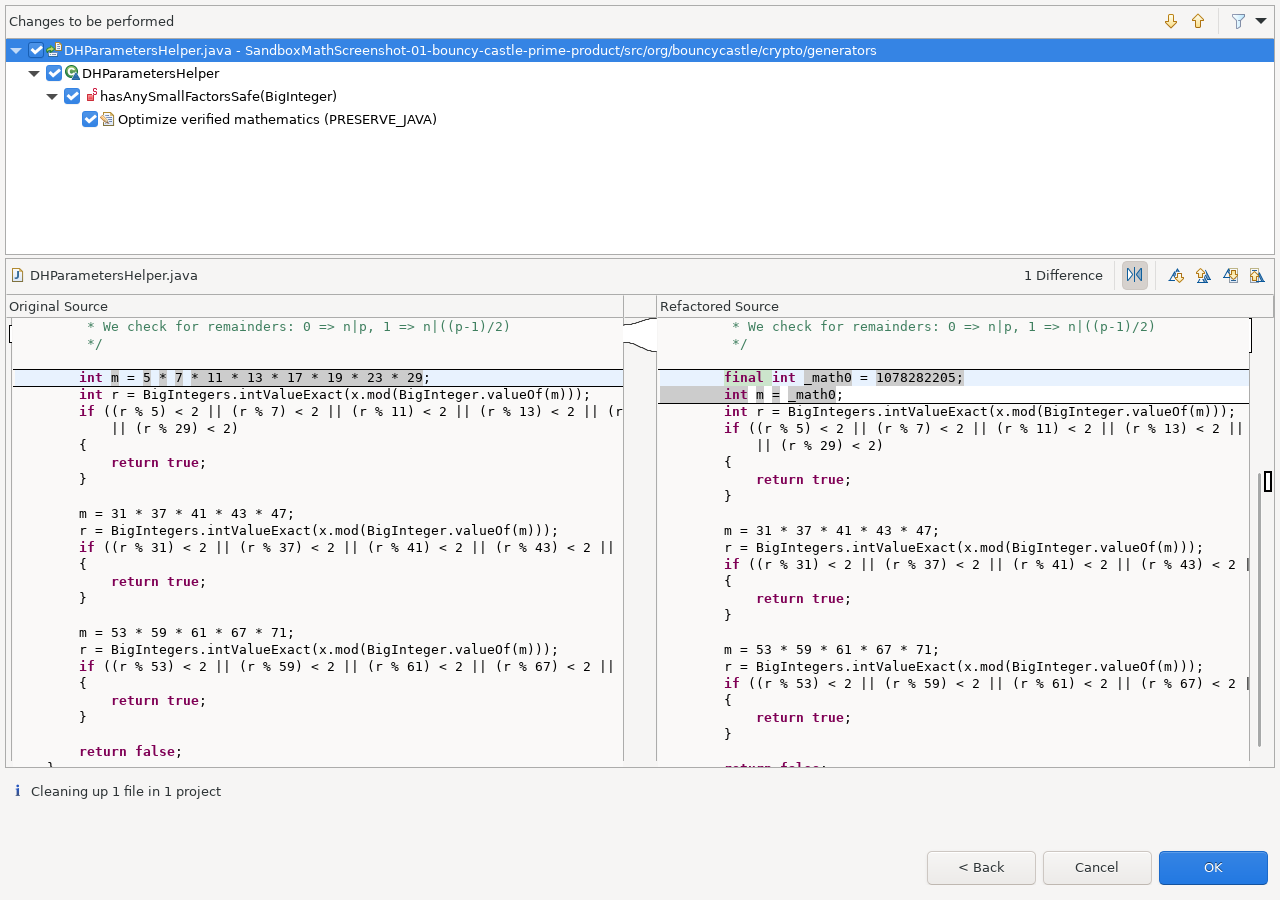
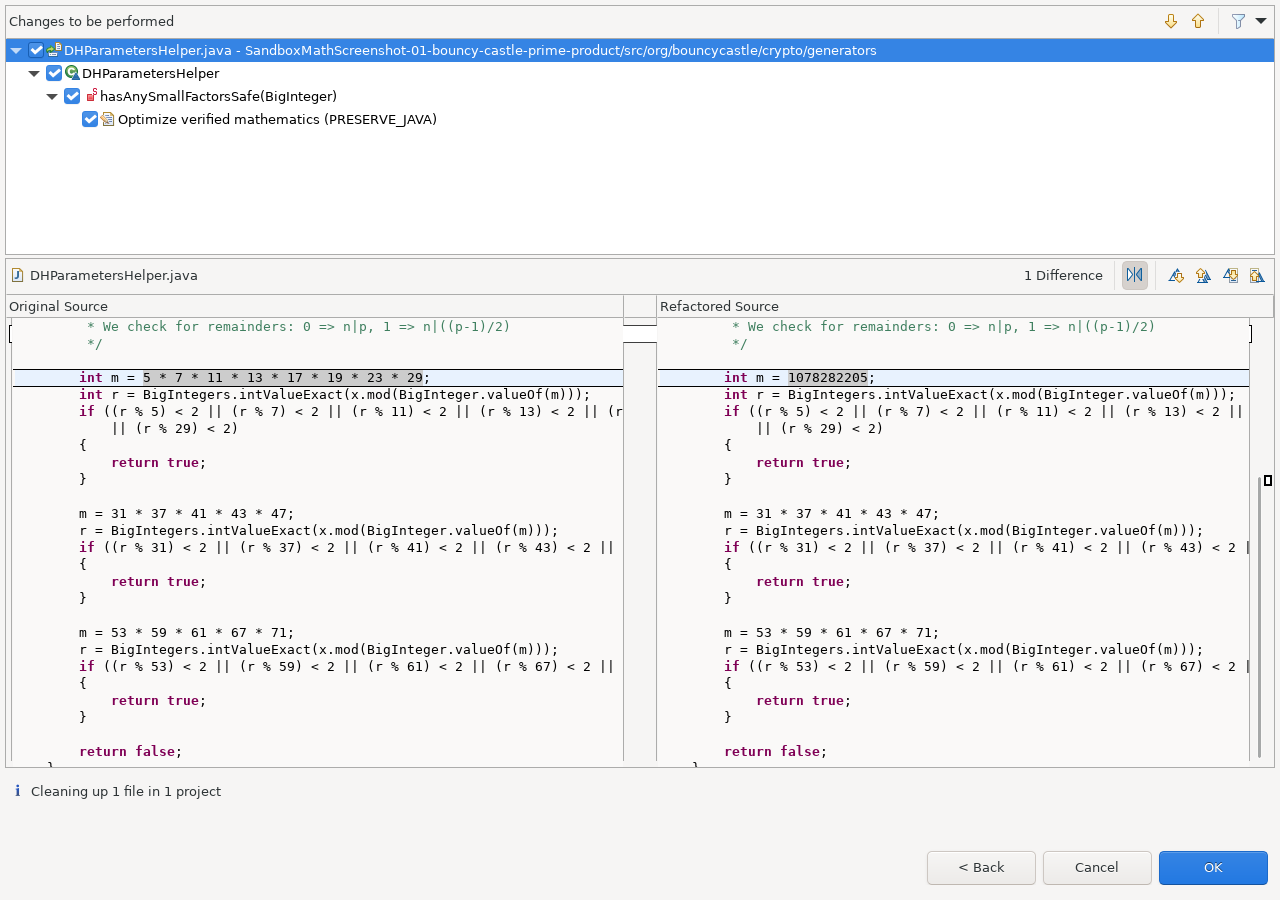
Update mathematics Help fixtures and screenshots for live-output compact emission

Changed region(s): [[0.5, 0.4044, 0.9688, 0.6844], [0.5625, 0.7156, 0.9375, 0.84], [0.0938, 0.4044, 0.1562, 0.4356]]

diff --git a/sandbox_math_cleanup_help/html/examples.html b/sandbox_math_cleanup_help/html/examples.html
@@ -7,25 +7,25 @@ img{display:block;width:100%;height:auto;border:1px solid #aaa}figure{margin:1.5
 figcaption{margin:.5em 0}table{border-collapse:collapse;width:100%}th,td{border:1px solid #aaa;padding:.6em;text-align:left}
 code,pre{font-family:monospace}pre{background:#eee;padding:1em;overflow:auto}.note{border-left:4px solid #936600;background:#fff7e8;padding:1em}
 </style></head><body>
-<h1>Real mathematics cleanup: four before/after examples</h1>
+<h1>Real mathematics cleanup: two before/after examples</h1>
 <p>These are screenshots of the ordinary Eclipse <strong>Clean Up</strong> preview.
 The left and right panes contain the original and proposed Java source. The
 registered mathematics cleanup computes each change; the screenshot test checks
 the complete preview, applies it, parses the result with resolved bindings, and
 verifies byte-for-byte Undo before accepting the image.</p>
 <p>The examples increase the complexity of the <em>source calculation</em>. One
-comes from Bouncy Castle production code; three are existing Eclipse JDT
-regression inputs. The JDT fixtures are not claims that the JDT implementation
-contains those calculations. Original repository revisions and source locations
+comes from Bouncy Castle production code; the other is an existing Eclipse JDT
+regression input. The JDT fixture is not a claim that the JDT implementation
+contains that calculation. Original repository revisions and source locations
 are linked beside every example.</p>
-<div class="note"><strong>What these results mean.</strong> All four examples
+<div class="note"><strong>What these results mean.</strong> Both examples
 simplify calculations whose values are statically known. They demonstrate the
-current cleanup's constant evaluation, propagation and shared values. They do
-not demonstrate a general algebraic optimizer or a measured speedup. Java
-compilers already fold literal constant expressions. The current emitter also
-introduces <code>final _math...</code> temporaries and preserves the original
-variable declarations, so fewer arithmetic operations can mean more source
-lines. The screenshots show that output without hand editing it.</div>
+current cleanup's constant evaluation and propagation. They do not demonstrate
+a general algebraic optimizer or a measured speedup. Java compilers already fold
+literal constant expressions. The current emitter writes each result directly
+into the original variable and only rewrites values that the method later
+observes; calculations whose results are never used are left unchanged. The
+screenshots show that output without hand editing it.</div>
 <h2>Reproduce the settings</h2>
 <ol>
 <li>Open <strong>Java &gt; Code Style &gt; Clean Up</strong> and edit a profile.</li>
@@ -42,9 +42,7 @@ and open the preview. Select the Java file to see the two source panes.</li>
 Click an image to inspect the full-size 1280 × 900 capture.</p>
 <table><thead><tr><th>Level</th><th>Source</th><th>Visible transformation</th></tr></thead><tbody>
 <tr><td>1</td><td>Bouncy Castle production method</td><td>A product of eight small primes becomes one integer constant.</td></tr>
-<tr><td>2</td><td>JDT Core compiler regression input</td><td>Two negations reuse the same known value while assignments and a comment remain.</td></tr>
-<tr><td>3</td><td>JDT UI Extract Temp regression input</td><td>Values propagate through three local declarations into a longer sum.</td></tr>
-<tr><td>4</td><td>JDT UI Extract Temp regression input</td><td>Two nested arithmetic expressions produce two independent results.</td></tr>
+<tr><td>2</td><td>JDT Core compiler regression input</td><td>Two negations become the same known value while assignments and a comment remain.</td></tr>
 </tbody></table>
 <h2 id="bouncy-castle">1. A constant product in Bouncy Castle</h2>
 <p><a href="https://github.com/bcgit/bc-java/blob/c314b9cdffa3958a0eff5344f8fdcdb0181ed830/core/src/main/java/org/bouncycastle/crypto/generators/DHParametersHelper.java#L107-L137">DHParametersHelper.hasAnySmallFactorsSafe</a>
@@ -53,8 +51,7 @@ uses that complete, unchanged method in its original package and class; only
 unrelated members are omitted. The real Bouncy Castle <code>BigIntegers</code>
 class supplies bindings, rather than a source stub.</p>
 <pre>Before: int m = 5 * 7 * 11 * 13 * 17 * 19 * 23 * 29;
-After:  final int _math0 = 1078282205;
-        int m = _math0;</pre>
+After:  int m = 1078282205;</pre>
 <figure><a href="../images/01-bouncy-castle-prime-product.png"><img src="../images/01-bouncy-castle-prime-product.png" alt="Native cleanup preview: Bouncy Castle prime product becomes 1078282205"></a>
 <figcaption>The subsequent BigInteger operation and conditional trial-division
 checks remain visible and unchanged. This is a source simplification, not a
@@ -64,36 +61,20 @@ cryptographic performance or constant-time certification.</figcaption></figure>
 <h2 id="jdt-core">2. A shared result across assignments in JDT Core</h2>
 <p><a href="https://github.com/eclipse-jdt/eclipse.jdt.core/blob/ef3d6f2115df89d7964bc13aa363ab8d6bd21256/org.eclipse.jdt.core.tests.compiler/src/org/eclipse/jdt/core/tests/compiler/regression/NumericTest.java#L31-L44">NumericTest.test001</a>
 contains a small compiler regression program. Starting with <code>offset = -8</code>,
-it calculates <code>0 - offset</code> twice. The cleanup produces one constant
-<code>8</code> and uses it for both <code>temp</code> and the new <code>offset</code>.</p>
+it calculates <code>0 - offset</code> twice. The cleanup writes the constant
+<code>8</code> directly into both <code>temp</code> and the new <code>offset</code>.</p>
 <figure><a href="../images/02-jdt-core-shared-value.png"><img src="../images/02-jdt-core-shared-value.png" alt="Native cleanup preview: JDT Core regression program reuses the value eight"></a>
 <figcaption>The original assignments, output checks and “problem line” comment
 are preserved. The whole embedded Java program is used unchanged as input.</figcaption></figure>
 <p>Source: JDT Core <code>R4_40</code>, commit <code>ef3d6f2115df89d7964bc13aa363ab8d6bd21256</code>, EPL-2.0.</p>
-<h2 id="multiple-lines">3. Propagate values through several lines</h2>
-<p><a href="https://github.com/eclipse-jdt/eclipse.jdt.ui/blob/c922f757b27b7e2b6215db383cec5f8aafd13227/org.eclipse.jdt.ui.tests.refactoring/resources/ExtractTemp/canExtract/A_test114_in.java">ExtractTemp A_test114_in.java</a>
-initializes <code>x = 9</code>, <code>y = 10</code> and <code>k = 8</code> before
-a longer sum. The cleanup follows those local values and derives
-<code>j = 178</code>. The screenshot uses the complete upstream fixture.</p>
-<figure><a href="../images/03-jdt-ui-multiple-lines.png"><img src="../images/03-jdt-ui-multiple-lines.png" alt="Native cleanup preview: values from x y and k propagate into the result 178"></a>
-<figcaption>This illustrates reasoning across statements. It does not establish
-an equivalent rewrite for arbitrary, unknown x, y and k.</figcaption></figure>
-<h2 id="nested">4. Nested expressions with two results</h2>
-<p><a href="https://github.com/eclipse-jdt/eclipse.jdt.ui/blob/c922f757b27b7e2b6215db383cec5f8aafd13227/org.eclipse.jdt.ui.tests.refactoring/resources/ExtractTemp/canExtract/A_test54_in.java">ExtractTemp A_test54_in.java</a>
-contains nested additions and multiplications in two initializers. The actual
-cleanup computes <code>e = 204</code> and <code>c = 47</code>, retaining both
-outputs and the original surrounding source.</p>
-<figure><a href="../images/04-jdt-ui-nested-arithmetic.png"><img src="../images/04-jdt-ui-nested-arithmetic.png" alt="Native cleanup preview: two nested JDT UI arithmetic expressions become 204 and 47"></a>
-<figcaption>The two source expressions are processed together. The generated
-temporary variables are part of the actual cleanup result.</figcaption></figure>
-<p>Both JDT UI examples: <code>R4_40</code>, commit
-<code>c922f757b27b7e2b6215db383cec5f8aafd13227</code>, EPL-2.0.</p>
 <h2>Limits exposed by real code</h2>
 <p>The inspected Bouncy Castle <code>GF256AES.mul</code> calculation exceeded
 the current plan-preparation bound. A JDT test with nested shifts of a variable
 returned an inconclusive search relation. Neither is presented as a successful
-transformation. Likewise, the BigInteger/modular reference described in the
-qualification documentation is not evidence that arbitrary cryptographic
+transformation. The JDT UI Extract Temp inputs <code>A_test114_in.java</code>
+and <code>A_test54_in.java</code> compute only local values that are never
+read, so the cleanup correctly proposes no change for them. Likewise, the
+BigInteger/modular reference described in the qualification documentation is not evidence that arbitrary cryptographic
 methods are optimized. Review each actual preview and its diagnostics.</p>
 <p><a href="cleanup.html">Back to configuration, safety profiles and headless use</a>.</p>
 </body></html>

diff --git a/sandbox_math_cleanup_help/html/cleanup.html b/sandbox_math_cleanup_help/html/cleanup.html
@@ -91,11 +91,11 @@ edited remains unchanged and limits generated syntax and APIs. Unknown or
 unqualified target contracts are rejected.</p>
 
 <h2 id="examples">Examples and counterexamples</h2>
-<p><a href="examples.html"><strong>Four real before/after screenshots, from a
-constant product to nested calculations with multiple outputs</strong></a> show
+<p><a href="examples.html"><strong>Two real before/after screenshots, from a
+constant product to a value shared across assignments</strong></a> show
 the actual Eclipse cleanup preview, exact upstream sources and the required
-settings. They include Bouncy Castle production code and Eclipse JDT regression
-fixtures, with their different roles clearly identified.</p>
+settings. They include Bouncy Castle production code and an Eclipse JDT regression
+fixture, with their different roles clearly identified.</p>
 <p>An eligible shape uses a known BigInteger factory and value-only observations:</p>
 <pre>BigInteger input = BigInteger.valueOf(a * b);
 BigInteger sum = input.add(BigInteger.ONE);
@@ -155,7 +155,7 @@ specific analysis diagnostics. No analyzed user program is executed to infer
 its behavior.</p>
 <h2 id="qualification">Qualification status</h2>
 <p>The <a href="examples.html">real-source screenshot gallery</a> exercises the
-registered cleanup, native preview, application and byte-exact Undo for four
+registered cleanup, native preview, application and byte-exact Undo for two
 specific examples. Full corpus, installation and measured Java performance
 qualification remain separate work; these screenshots do not establish them.</p>
 <p>The source checkout separates new evidence under

diff --git a/sandbox_eclipse_help_swtbot_test/src/org/sandbox/jdt/ui/helper/views/EclipseHelpScreenshotEvidenceTest.java b/sandbox_eclipse_help_swtbot_test/src/org/sandbox/jdt/ui/helper/views/EclipseHelpScreenshotEvidenceTest.java
@@ -91,12 +91,11 @@ public class EclipseHelpScreenshotEvidenceTest {
     }
 
     @Test
-    public void mathematicsExamplesShipFourDistinctSourceBoundPreviews() throws Exception {
+    public void mathematicsExamplesShipDistinctSourceBoundPreviews() throws Exception {
         Path repository= SandboxCheckout.locate(null);
         Path images= repository.resolve("sandbox_math_cleanup_help/images"); //$NON-NLS-1$
         Set<String> digests= new HashSet<>();
-        for (String id : List.of("01-bouncy-castle-prime-product", "02-jdt-core-shared-value", //$NON-NLS-1$ //$NON-NLS-2$
-                "03-jdt-ui-multiple-lines", "04-jdt-ui-nested-arithmetic")) { //$NON-NLS-1$ //$NON-NLS-2$
+        for (String id : List.of("01-bouncy-castle-prime-product", "02-jdt-core-shared-value")) { //$NON-NLS-1$ //$NON-NLS-2$
             Path png= images.resolve(id + ".png"); //$NON-NLS-1$
             BufferedImage preview= requireImage(png);
             assertEquals(1280, preview.getWidth());

diff --git a/sandbox_eclipse_help_swtbot_test/fixtures/mathematics/README.md b/sandbox_eclipse_help_swtbot_test/fixtures/mathematics/README.md
@@ -9,20 +9,20 @@ not manually written optimization suggestions.
 | --- | --- | --- |
 | 01 | Bouncy Castle `DHParametersHelper.hasAnySmallFactorsSafe`, commit `c314b9cdffa3958a0eff5344f8fdcdb0181ed830`, source lines 107–137 | Complete original method in its original package/class with its real imports; unrelated members omitted. Bindings use the target's `bcprov` bundle. |
 | 02 | JDT Core `NumericTest.test001`, `R4_40` / `ef3d6f2115df89d7964bc13aa363ab8d6bd21256`, embedded Java program, lines 31–44 | Exact decoded upstream Java string-literal program, including its checks and comment. |
-| 03 | JDT UI `ExtractTemp/canExtract/A_test114_in.java`, `R4_40` / `c922f757b27b7e2b6215db383cec5f8aafd13227` | Complete original refactoring input. |
-| 04 | JDT UI `ExtractTemp/canExtract/A_test54_in.java`, same revision | Complete original refactoring input. |
 
 `example.properties` records the exact source path/revision, selected numeric
 kinds and SHA-256 of `before.java.txt`. Source links and the distinction between
 production code and upstream regression fixtures are also in installed Help.
-The JDT samples retain their EPL-2.0 terms (see this test bundle's LICENSE.txt).
+The JDT sample retains its EPL-2.0 terms (see this test bundle's LICENSE.txt).
 The Bouncy Castle excerpt is MIT-licensed; its copyright and complete permission
 notice ship in `sandbox_math_cleanup_help/html/bouncy-castle-license.html`.
 
 All examples use Java 17, INT, PRESERVE_JAVA, READABILITY, a work budget of
 1,000,000 and 20,000 states. They illustrate statically known arithmetic, not
 measured speedups or arbitrary-variable algebra. Preserve the actual emitter's
-temporary declarations when updating snapshots.
+output exactly when updating snapshots. The former JDT UI ExtractTemp inputs
+`A_test114_in.java` and `A_test54_in.java` were removed because they only compute
+locals that are never read; the live-output cleanup correctly leaves them unchanged.
 
 The focused local entry point is `MathematicsHelpScreenshotsSWTBotTest` under the
 existing `help-screenshots` profile. The standard Help merge gate calls the same
